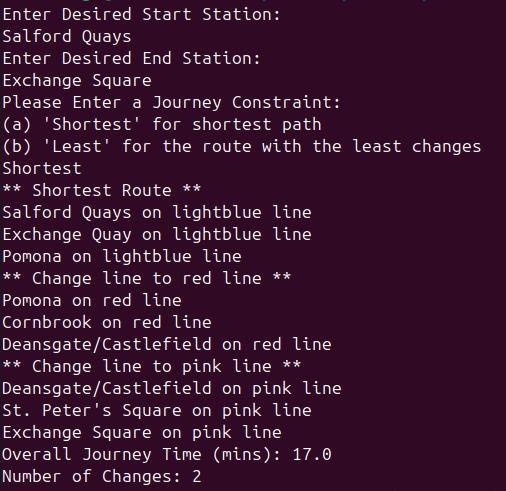
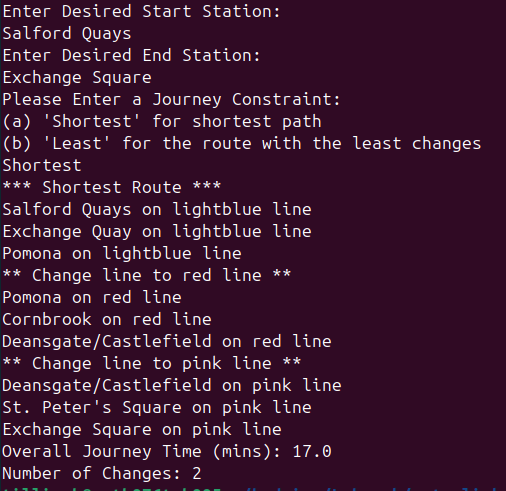
Updated code slightly to ensure it prints output exactly as formatted in the specification, I had initially used '** Route with Fewest Changes **', but have since changed that to be '*** Route with Fewest Changes ***' which is an exact match for what is given in the specification.

Changed region(s): [[0.0, 0.0, 0.9486, 1.0], [0.919, 0.9776, 0.9486, 1.0]]

diff --git a/Graph.java b/Graph.java
@@ -522,10 +522,10 @@ public class Graph {
         }
 
         if(constraint.equals("Shortest")) {
-            System.out.println("** Shortest Route **");
+            System.out.println("*** Shortest Route ***");
         }
         else if(constraint.equals("Least")) {
-            System.out.println("** Route with Fewest Changes **");
+            System.out.println("*** Route with Fewest Changes ***");
         }
 
         // Prints out the route and any changes, counting how many line changes happen.
